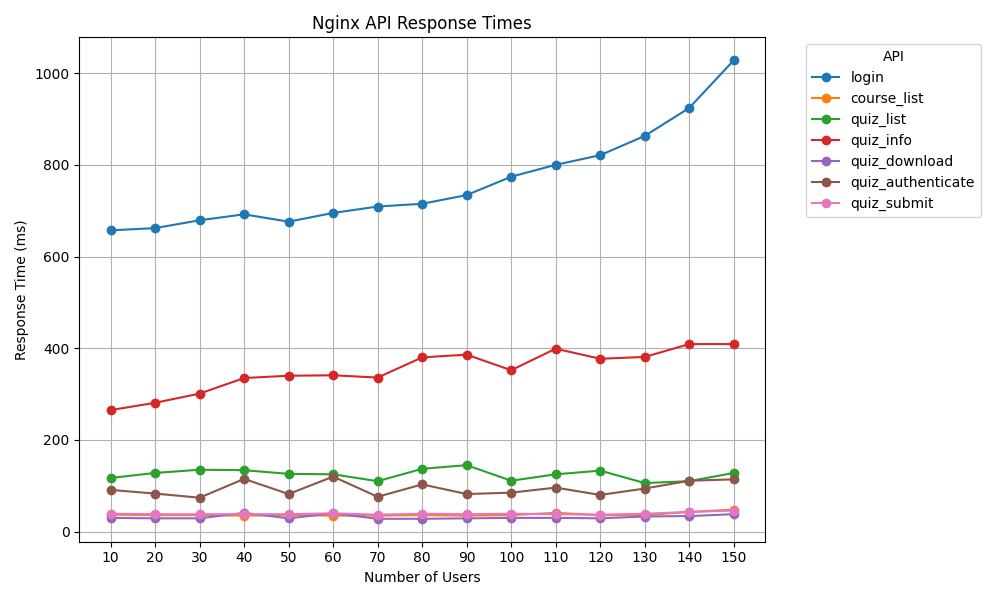
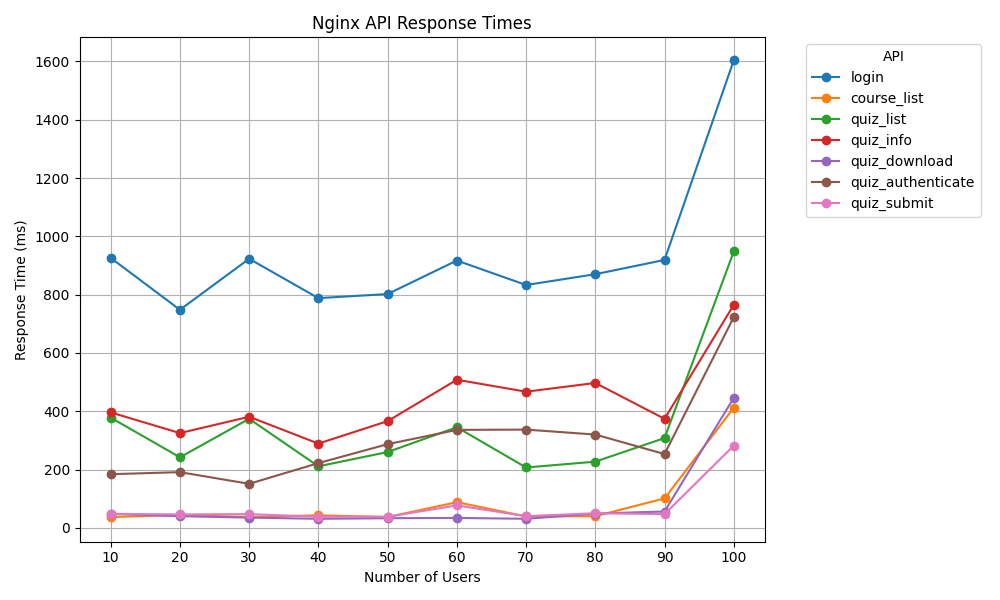
testing for dev_3.6

diff --git a/client_end_script/gather_data.py b/client_end_script/gather_data.py
@@ -140,7 +140,7 @@ def process_and_save_results(folders, prefix, output_filename):
 def main():
     # Find all "2024" folders in the current directory
     base_path = os.getcwd()  # Current working directory
-    folders = glob.glob(os.path.join(base_path, "2024*"))
+    folders = glob.glob(os.path.join(base_path, "2025*"))
 
     # Process and save results for "uwsgi"
     process_and_save_results(folders, "uwsgi", 'uwsgi_response_times_summary.csv')

diff --git a/client_end_script/settings/TestName.py b/client_end_script/settings/TestName.py
@@ -1,4 +1,4 @@
-quizid='CS007.27906DI'
+quizid='CS007.FB'
 if __name__=="__main__":
     testname = open("settings/TestName.py","r")
     testname.readline()
